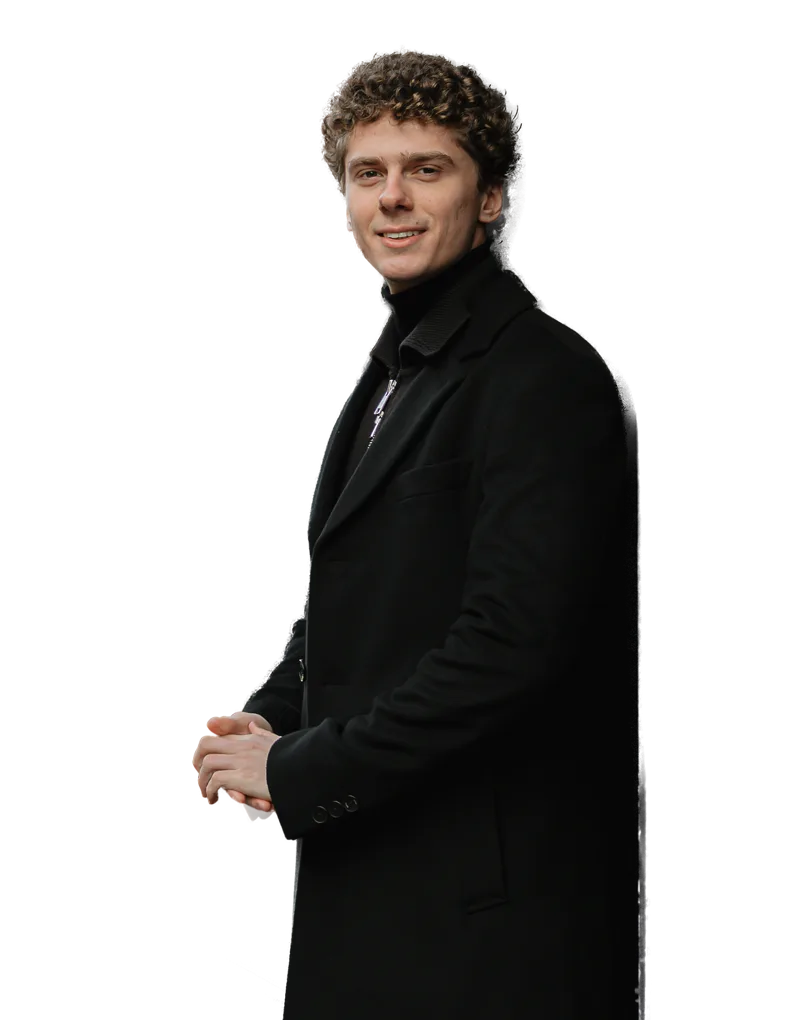
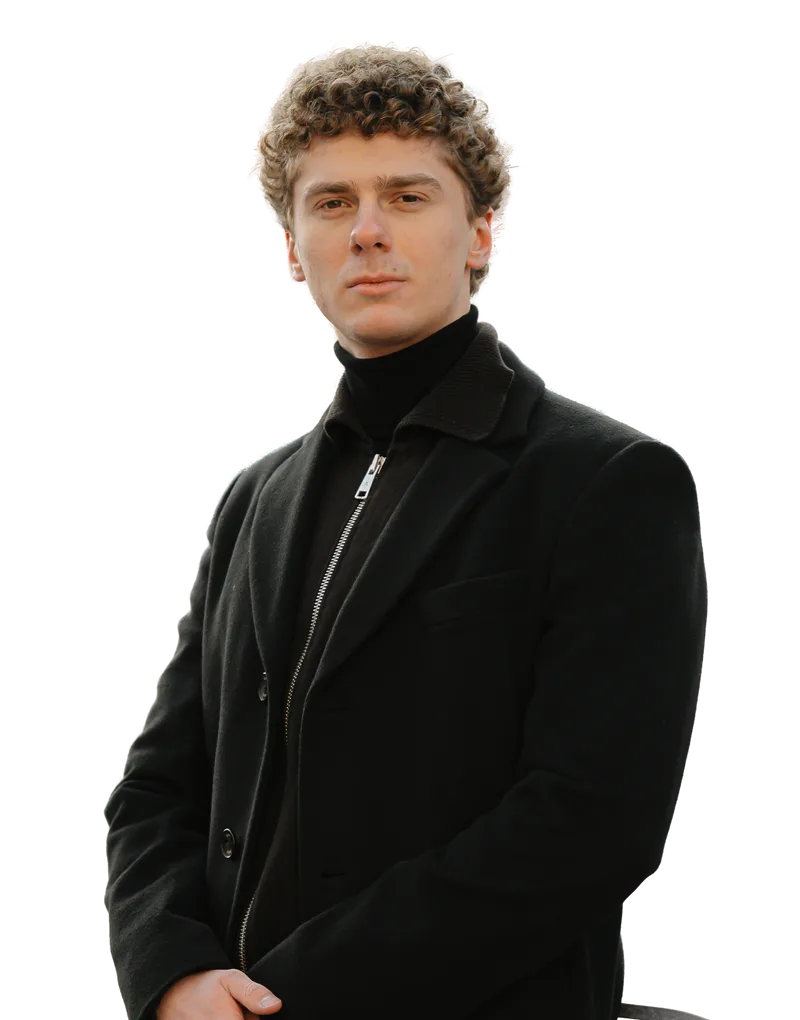
fix: финальный экран — фото у ограды без ограды
Пользователь: «Давай с этой фоткой сделаем, только так чтобы забора не было видно». Кадр из Photos/DSC_2792.jpg взят выше ограды, фон вырезан; Володимир крупно по пояс (кадр выше блока в 1,3 раза), фон блока — по-прежнему Silk.

Changed region(s): [[0.125, 0.0304, 0.9062, 1.0]]

diff --git a/src/styles/sections/cta.css b/src/styles/sections/cta.css
@@ -139,7 +139,7 @@
     max-width: 50%;
   }
 
-  /* сцена привязана к блоку, а не к колонке: кадр выше блока в 1,5 раза — Володимир крупно, голова у верха блока
+  /* сцена привязана к блоку, а не к колонке: кадр выше блока в 1,3 раза — Володимир крупно (фото у ограды, ограда ниже края), голова у верха блока
      («Давай приблизм владимира»; раньше 1,25 — с руками в кадре) */
   .cta__stage {
     position: absolute;
@@ -150,11 +150,11 @@
   }
 
   .cta__scene {
-    top: calc(var(--cta-h) * -0.06);
-    right: calc(var(--cta-h) * -0.1);
+    top: calc(var(--cta-h) * -0.03);
+    right: calc(var(--cta-h) * -0.04);
     left: auto;
     width: auto;
-    height: calc(var(--cta-h) * 1.5);
+    height: calc(var(--cta-h) * 1.3);
   }
 
   .section--cta .display.section__title {

diff --git a/tests/phone-chat.test.js b/tests/phone-chat.test.js
@@ -160,7 +160,7 @@ test('14 CTA: фото без рамки — улица растворяется
   assert.match(ctaCss, /\.cta__scene-cut\s*\{[^}]*drop-shadow/, 'тёплый контур фигуры');
   assert.match(ctaCss, /\.cta__glow\s*\{[^}]*var\(--accent-2\)/, 'свечение за головой');
   // широкий экран: кадр выше блока в 1,5 раза — Володимир крупно («Давай приблизм владимира»)
-  assert.match(ctaCss, /height:\s*calc\(var\(--cta-h\) \* 1\.5\)/);
+  assert.match(ctaCss, /height:\s*calc\(var\(--cta-h\) \* 1\.3\)/);
   for (const [, prop] of ctaCss.matchAll(/transition:\s*([a-z-]+)/g)) assert.ok(['transform', 'opacity'].includes(prop), prop);
   assert.doesNotMatch(ctaCss, /@keyframes|animation:/, 'движение — только на холсте');
 });

diff --git a/README.md b/README.md
@@ -27,7 +27,7 @@
 |---|---|---|
 | Видео первого экрана | `public/video/` | `hero-1080.mp4` (десктоп), `hero-720.mp4` (мобильный), `poster.jpg` (кадр-заставка). Сейчас стоит абстрактная петля 12 с в цветах бренда; чтобы заменить — положите свои файлы с теми же именами. |
 | Видео-отзывы клиентов (блок «Що говорять підприємці») | `public/video/reviews/` | `<id>.mp4` — вертикальное видео 9:16, путь вписывается в `/admin/` (розділ «Відгуки», поле «№N · Файл відео»). Сейчас подключены оба: `mukhin.mp4`, `dombovetskyi.mp4` (720 px по ширине, сжаты ffmpeg из исходников в `Video/`, которая в .gitignore). Пустое поле — аватар клиента и «відео-відгук скоро». Подробно — раздел «Як додати відеовідгук» ниже. |
-| Фото Володимира | `public/img/photo/` | `volodymyr-hero-*`, `volodymyr-founder-*` — AVIF, WebP и JPG двух ширин. Финальный блок: `volodymyr-cta-scene-800/1200.webp` (кадр с улицей) и `volodymyr-cta-cut-800/1200.webp` (вырезанная фигура, прозрачный фон) — одного размера 800×1020, ложатся друг на друга; сделаны из `Photos/cta-street.jpg` — фото у витрины, прислано в чат 2026-11-11, кадр x 1624 y 2075 2089×2665 (вырезка — rembg, модель isnet-general-use). Чтобы заменить, положите файлы с теми же именами и размерами. Исходники фотосессии в репозиторий не входят. |
+| Фото Володимира | `public/img/photo/` | `volodymyr-hero-*`, `volodymyr-founder-*` — AVIF, WebP и JPG двух ширин. Финальный блок: `volodymyr-cta-scene-800/1200.webp` (кадр с улицей) и `volodymyr-cta-cut-800/1200.webp` (вырезанная фигура, прозрачный фон) — одного размера 800×1020, ложатся друг на друга; сделана из `Photos/DSC_2792.jpg` — фото у ограды, кадр x 600 y 1100 2500×3188, ограда ниже кадра (вырезка — rembg, модель isnet-general-use). Чтобы заменить, положите файлы с теми же именами и размерами. Исходники фотосессии в репозиторий не входят. |
 | Логотипы клиентов | `public/img/logos/` | 7 файлов SVG/PNG. |
 | Скриншоты рекламы | `public/img/ads/` | 3 файла: канал, медиа, бот. |
 | Аватары клиентов в кейсах | `public/img/cases/` | Квадратные WebP: `<id>.webp` (256×256) и `<id>@2x.webp` (512×512), где `<id>` — `id` кейса в `src/data/cases.json`. Подключены: `cryptonite`, `monolit`, `global-auto-logistic`, `trackdesk`, `mukhin` (аватар ПроSales), `dombovetskyi`, `finmap`, `kniaziev` (у `kniaziev` исходник 160×160 — файл один, без `@2x`; в данных `"avatarRetina": false`). Картинка запрашивается только у кейса с `"avatar": true`; `"accent": "#hex"` там же — цвет бренда для акцентов карточки. Без аватара — круг с первой буквой имени. |

diff --git a/.autopilot/PROGRESS.md b/.autopilot/PROGRESS.md
@@ -77,3 +77,4 @@
 - 2026-11-11 — финальный экран: фото меньше, видно сложенные руки («Так чтобы руки тоже было видно»): кадр выше блока в 1,25 раза вместо 1,58; на телефоне фото 4:5 на всю ширину
 - 2026-11-11 — финальный экран: фон «Silk» на весь блок («silk сделай на весь блок»; вариант 8 из фонов по мотивам Framer) — cta-silk.js, холст .cta__silk; улица за фигурой и топографические линии убраны («Фон убираем нынешний и ставим другой»), файлы volodymyr-cta-scene-* и cta-lines.js удалены
 - 2026-11-11 — финальный экран: Володимир крупнее («Давай приблизм владимира»): кадр выше блока в 1,5 раза вместо 1,25, голова у верха блока; руки теперь за нижним краем; на телефоне фигура 128% ширины
+- 2026-11-11 — финальный экран: фото у ограды Photos/DSC_2792.jpg («Давай с этой фоткой сделаем, только так чтобы забора не было видно»): кадр x600 y1100 2500×3188 — ограда ниже кадра и вырезана вместе с фоном; кадр выше блока в 1,3 раза
